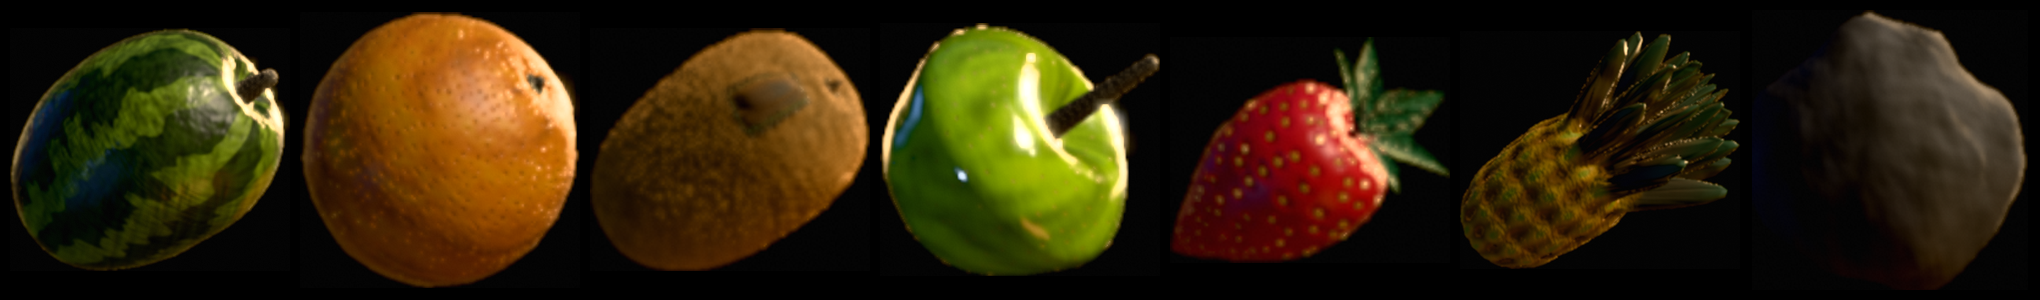
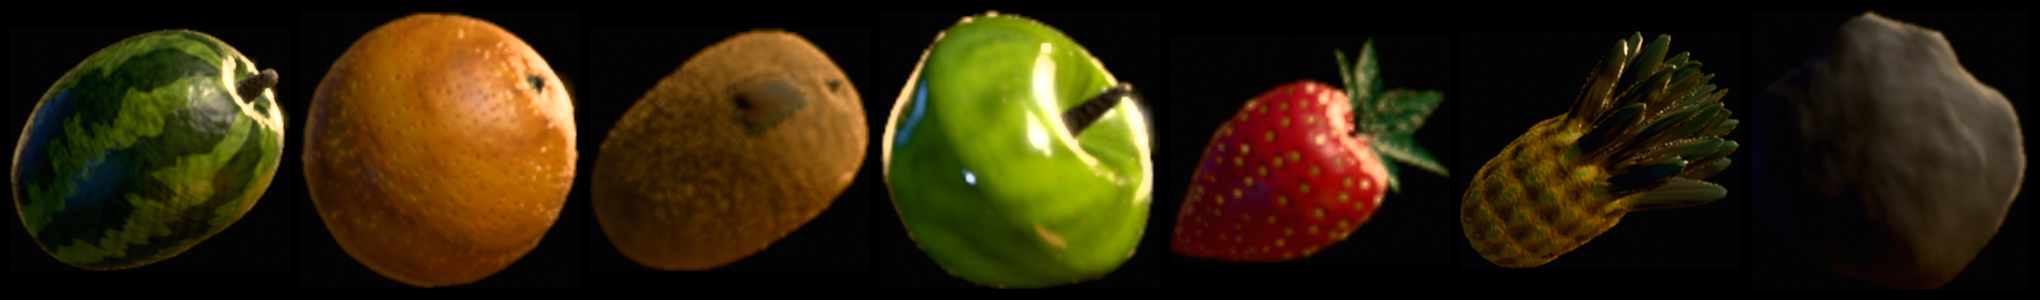
r37f: the apple stem trim, in the variant that renders
Confession round. Neither r37d nor r37e ever changed the shipped apple:
r37d trimmed base SHAPE's stem (shadowed by the D overlay), r37e trimmed
what turned out to be VARIANT C's stem (dead code for the shipped D) —
and the "verified" render was later proven bit-identical by pixel diff,
which is the check that should have run the first time. The owner caught
it twice.

Variant D's actual stem goes len 1.05 -> 0.56 (the compounded ask: two
thirds, then 80% of that), pixel-diff verified against the committed
render this time (4432 pixels moved; the stalk is a short stub emerging
from the well). The two dead-code edits are REVERTED: C keeps its
authored bake-off numbers, and base SHAPE returns to 0.92 because
variant A's bit-exact reproduction of the r10 mesh is a documented
guarantee the r37d edit had silently broken.

Full fruitviews re-render + strips. Audioprobe green 3x, drawprobe
green, pointerprobe green.

Claude-Session: https://claude.ai/code/session_015nASdr9y6NnLpyGJ9ZZJpd

Changed region(s): [[0.4324, 0.03, 0.5868, 0.96], [0.4632, 0.54, 0.4941, 0.63]]

diff --git a/src/fruit/geometry.js b/src/fruit/geometry.js
@@ -1417,7 +1417,7 @@ const SHAPE = {
     // apple the blossom-end serration plate-01 shows under its stalk, for +112
     // triangles: `limb pose=ship` hull_concave_frac_pct 41.80 -> 50.78,
     // protr_height_pct 8.15 -> 13.10, apple identity_recall unchanged at 1.000.
-    stem: { r: 0.145, len: 0.61, taper: 0.38, tip: 0.85 },   // r37: 0.92 -> 0.61, owner: "unrealistically tall" — still a 4.2:1 stalk, still the outline event
+    stem: { r: 0.145, len: 0.92, taper: 0.38, tip: 0.85 },
     crown: {
       cols: 45, woody: true,
       whorls: [
@@ -1835,13 +1835,10 @@ export const SHAPE_VARIANTS = {
       },
       apple: {
         lobeN: 5, lobeAmp: 0.075, lobePhase: 0.7, lobeYc: -0.10, lobeYw: 1.30, lobeTwist: 0, lobeBias: 0,
-        // a thinner, more graceful stalk — a real apple stalk is a wire, and
-        // this one is the species' best feature (r9 measured it as the largest
-        // single outline event in the table bar the pineapple crown). r37: len
-        // 1.02 -> 0.68, owner: "unrealistically tall" — ⚠ this OVERLAY masked
-        // the same trim in base SHAPE; the shipped variant is D, so this is
-        // the number that renders.
-        stem: { r: 0.122, len: 0.68, taper: 0.42, tip: 0.85 },
+        // a thinner, longer, more graceful stalk — a real apple stalk is a wire,
+        // and this one is the species' best feature (r9 measured it as the
+        // largest single outline event in the table bar the pineapple crown).
+        stem: { r: 0.122, len: 1.02, taper: 0.42, tip: 0.85 },   // r37f: owner round 2 — 80% of the 0.68 trim
         // the calyx as a dried rosette: half the length, 1.6x the footprint.
         crown: {
           cols: 45, woody: true,
@@ -1976,7 +1973,7 @@ export const SHAPE_VARIANTS = {
         // profile where it reads.
         taper: 0.210, taperK: 2.2,
         wellTop: 0.520, wellTopW: 0.42, wellBot: 0.300, wellBotW: 0.40,
-        stem: { r: 0.115, len: 1.05, taper: 0.45, tip: 0.85 },
+        stem: { r: 0.115, len: 0.56, taper: 0.45, tip: 0.85 },   // r37f: 1.05 -> 0.56, owner in two rounds ("unrealistically tall", then 80% of that) — D is the SHIPPED variant; edits to base SHAPE or C's apple do not render
         // the calyx survives ONLY as a low brown rosette, because species.js's
         // `wood` uv band needs geometry under it and because a real blossom end
         // does have five dried points. r23: at a=2.58 (32° off the bottom
